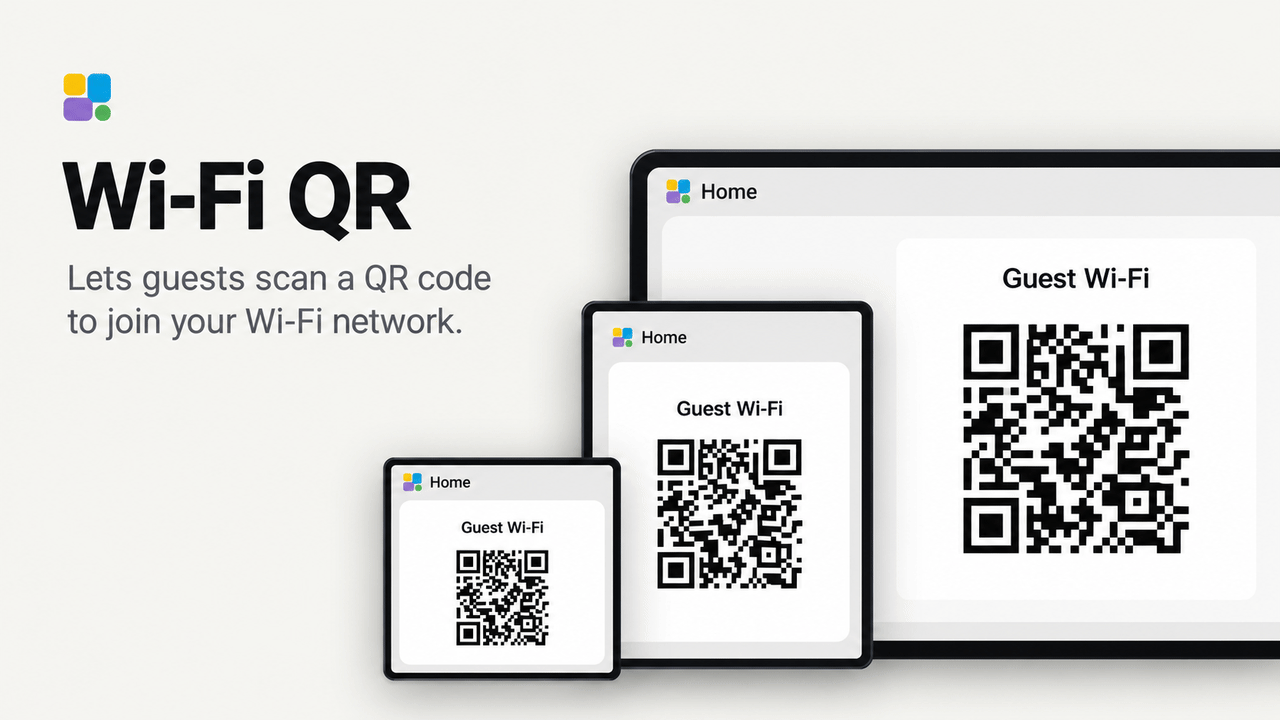
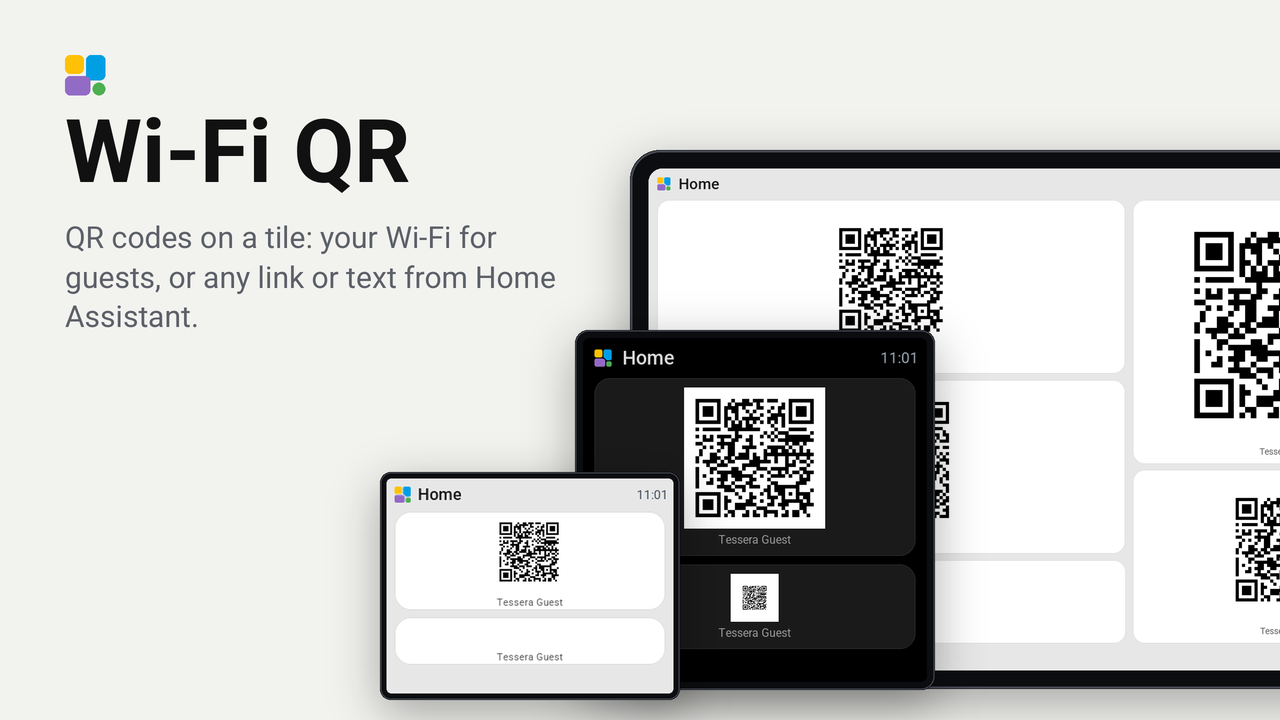
0.2.0: a QR code tile for any text, from an entity or the inspector
A second tile, QR code: the state of the tile's entity (a template sensor or a
text helper, up to 160 bytes) or a text typed in its inspector, with an
optional caption. Both tiles share one drawing, which now centres the code
with its quiet zone: the zone is a border that makes the object larger, so on
a tile one column wide the code stood off-centre and past the tile's edge.

diff --git a/components/wifi_qr/wifi_qr.cpp b/components/wifi_qr/wifi_qr.cpp
@@ -28,13 +28,13 @@ static uint64_t fingerprint(const std::string &value) {
   return hash;
 }
 
-class WifiTile : public tessera::Tile {
+// A QR code and a line of words under it, laid out in the room a tile has: the code as large as the room leaves above
+// the line, with its quiet zone in the code's light colour, in the middle. Both tiles draw with it.
+class QrView {
  public:
-  explicit WifiTile(WifiQr *plugin) : plugin_(plugin) {}
-
-  void create(const tessera::TileContext &c) override {
-    width_ = c.width;
-    height_ = c.height;
+  void create(lv_obj_t *parent, int width, int height) {
+    width_ = width;
+    height_ = height;
     const int line = ui::line_height(Font::BODY);
     const int gap = ui::px(6);
     const int available = std::max(1, height_ - line - gap);
@@ -43,49 +43,42 @@ class WifiTile : public tessera::Tile {
     const int code = std::max(21, side - 2 * zone);
 
 #if LV_USE_QRCODE
-    qr_ = lv_qrcode_create(c.parent);
-    lv_qrcode_set_dark_color(qr_, theme::color(theme::QR_DARK));
-    lv_qrcode_set_light_color(qr_, theme::color(theme::QR_LIGHT));
-    lv_obj_set_style_border_color(qr_, theme::color(theme::QR_LIGHT), 0);
-    lv_obj_set_style_border_width(qr_, zone, 0);
+    qr_ = lv_qrcode_create(parent);
     lv_qrcode_set_size(qr_, code);
-    lv_obj_set_pos(qr_, (width_ - code) / 2, 0);
+    lv_obj_set_style_border_width(qr_, zone, 0);
+    // The quiet zone is a border around the code and makes the object that much larger: centre the whole of it.
+    lv_obj_set_pos(qr_, (width_ - code - 2 * zone) / 2, 0);
     lv_obj_add_flag(qr_, LV_OBJ_FLAG_HIDDEN);
 #endif
-
-    status_ = ui::label(c.parent, Font::BODY, theme::MUTED);
+    status_ = ui::label(parent, Font::BODY, theme::MUTED);
     lv_obj_set_width(status_, width_);
     lv_obj_set_height(status_, line);
     lv_obj_set_pos(status_, 0, height_ - line);
     lv_obj_set_style_text_align(status_, LV_TEXT_ALIGN_CENTER, 0);
+    lv_label_set_long_mode(status_, LV_LABEL_LONG_DOT);
+    paint();
   }
 
-  void on_tick(uint32_t) override {
-    const std::string &ssid = plugin_->ssid();
-    const std::string &password = plugin_->password();
-    if (ssid.empty() || password.empty()) {
-      ui::set_text(status_, plugin_->text("helpers_empty"));
+  // The code of `payload` (drawn again only when it changed) and `words` under it; an empty payload hides the code.
+  void show(const std::string &payload, const std::string &words) {
 #if LV_USE_QRCODE
+    if (payload.empty()) {
       lv_obj_add_flag(qr_, LV_OBJ_FLAG_HIDDEN);
-#endif
       shown_ = false;
-      return;
-    }
-
-    const std::string payload = "WIFI:T:WPA;S:" + wifi_escape(ssid) + ";P:" + wifi_escape(password) + ";;";
-    const uint64_t next = fingerprint(payload);
-#if LV_USE_QRCODE
-    if (!shown_ || next != fingerprint_) {
-      lv_qrcode_update(qr_, payload.data(), payload.size());
-      fingerprint_ = next;
-      lv_obj_remove_flag(qr_, LV_OBJ_FLAG_HIDDEN);
-      shown_ = true;
+    } else {
+      const uint64_t next = fingerprint(payload);
+      if (!shown_ || next != fingerprint_) {
+        lv_qrcode_update(qr_, payload.data(), payload.size());
+        fingerprint_ = next;
+        lv_obj_remove_flag(qr_, LV_OBJ_FLAG_HIDDEN);
+        shown_ = true;
+      }
     }
 #endif
-    ui::set_text(status_, ssid);
+    ui::set_text(status_, words);
   }
 
-  void on_theme() override {
+  void paint() {
     ui::set_color(status_, theme::MUTED);
 #if LV_USE_QRCODE
     lv_qrcode_set_dark_color(qr_, theme::color(theme::QR_DARK));
@@ -95,7 +88,6 @@ class WifiTile : public tessera::Tile {
   }
 
  private:
-  WifiQr *plugin_;
   int width_ = 0;
   int height_ = 0;
   bool shown_ = false;
@@ -104,6 +96,62 @@ class WifiTile : public tessera::Tile {
   lv_obj_t *status_{};
 };
 
-void WifiQr::setup() { add_tile("connect", [this]() { return new WifiTile(this); }); }
+class WifiTile : public tessera::Tile {
+ public:
+  explicit WifiTile(WifiQr *plugin) : plugin_(plugin) {}
+
+  void create(const tessera::TileContext &c) override { view_.create(c.parent, c.width, c.height); }
+
+  void on_tick(uint32_t) override {
+    const std::string &ssid = plugin_->ssid();
+    const std::string &password = plugin_->password();
+    if (ssid.empty() || password.empty()) {
+      view_.show("", plugin_->text("helpers_empty"));
+      return;
+    }
+    view_.show("WIFI:T:WPA;S:" + wifi_escape(ssid) + ";P:" + wifi_escape(password) + ";;", ssid);
+  }
+
+  void on_theme() override { view_.paint(); }
+
+ private:
+  WifiQr *plugin_;
+  QrView view_;
+};
+
+// A QR code of any text: the state of the tile's entity (a template sensor or a text helper in Home Assistant, such as
+// a link with a value of the day in it, up to 160 bytes), or the text of the tile's option where it has no entity.
+class CodeTile : public tessera::Tile {
+ public:
+  explicit CodeTile(WifiQr *plugin) : plugin_(plugin) {}
+
+  void create(const tessera::TileContext &c) override {
+    fixed_ = c.options["text"] | "";
+    caption_ = c.options["caption"] | "";
+    view_.create(c.parent, c.width, c.height);
+    show(fixed_);
+  }
+
+  void on_state(JsonObjectConst data) override {
+    const std::string state = data["state"] | "";
+    show(state.empty() || state == "unknown" || state == "unavailable" ? fixed_ : state);
+  }
+
+  void on_theme() override { view_.paint(); }
+
+ private:
+  void show(const std::string &payload) {
+    view_.show(payload, payload.empty() ? std::string(plugin_->text("code_empty")) : caption_);
+  }
+
+  WifiQr *plugin_;
+  QrView view_;
+  std::string fixed_, caption_;
+};
+
+void WifiQr::setup() {
+  add_tile("connect", [this]() { return new WifiTile(this); });
+  add_tile("code", [this]() { return new CodeTile(this); });
+}
 
 }  // namespace esphome::wifi_qr

diff --git a/README.md b/README.md
@@ -1,7 +1,8 @@
 # Wi-Fi QR
 
-A Tessera tile that shows a scannable QR code for a Wi-Fi network. Its network name and password come from two Home
-Assistant `input_text` helpers, so changing either helper updates the tile without rebuilding the screen.
+A Tessera tile that shows a scannable QR code for a Wi-Fi network, and a second one for any text or link. Its network
+name and password come from two Home Assistant `input_text` helpers, so changing either helper updates the tile without
+rebuilding the screen.
 
 ## Set up
 
@@ -10,6 +11,19 @@ Assistant `input_text` helpers, so changing either helper updates the tile witho
 3. Add this plugin to a screen in Tessera. Choose those two helpers when Tessera asks for them, then build the screen.
 4. In Layout, place the **Wi-Fi QR** tile from the Plugins group and resize it from 1 x 1 up to 3 x 3. A size of at
    least 2 x 2 is recommended for reliable scanning.
+
+## A QR code of any text
+
+The **QR code** tile shows a QR code of any text, such as a link to a ticket shop, a menu or a survey.
+
+1. In Layout, place the **QR code** tile and choose an entity in its inspector: a template sensor or a text helper
+   whose state is the text. A template sensor can build the link, for example
+   `https://example.org/event/{{ states('input_text.event_id') }}`. A new state shows at once, without a build.
+2. Or leave the entity empty and type the text under **Text or link** (up to 64 characters).
+3. **Caption** puts a line under the code, such as `Tickets`.
+
+The state of an entity reaches the screen with up to 160 bytes, enough for most links. The longer the text, the finer
+the code: give a long link a tile of at least 2 x 2.
 
 ## Good to know
 

diff --git a/CHANGELOG.md b/CHANGELOG.md
@@ -1,5 +1,11 @@
 # Changelog
 
+## 0.2.0
+- A second tile, **QR code**: a QR code of any text, such as a link. It shows the state of the tile's entity (a
+  template sensor or a text helper, up to 160 bytes), so Home Assistant decides what it holds and a new value needs no
+  build, or the text typed in its inspector (up to 64 characters) where the tile has no entity. An optional caption
+  stands under the code.
+
 ## 0.1.1 - 2026-10-24
 - The tile can now be resized from 1 x 1 through 3 x 3 in Layout.
 
